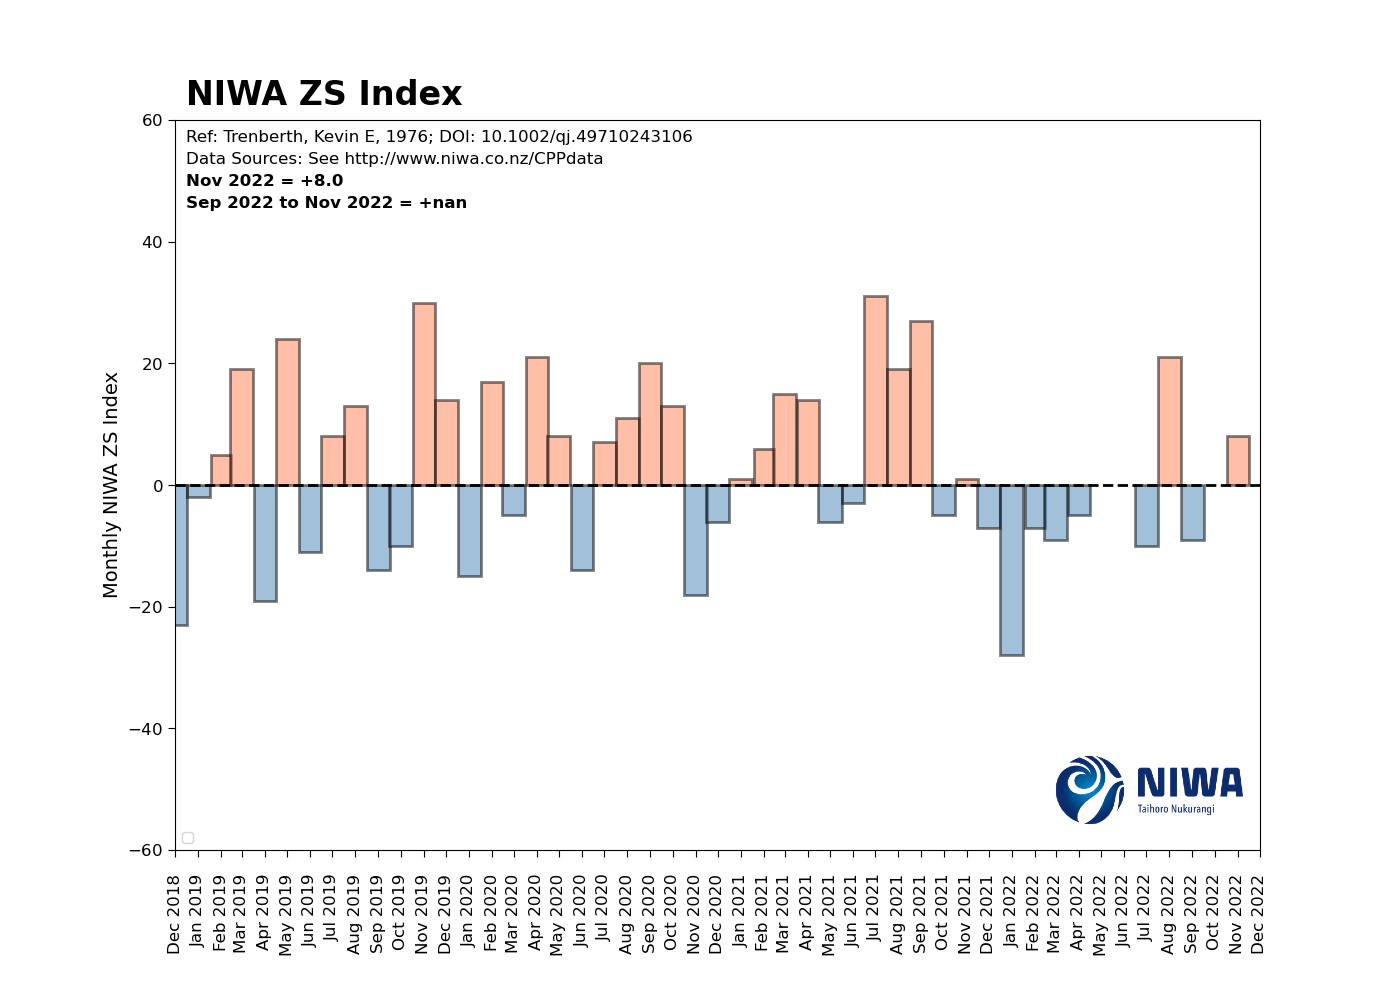
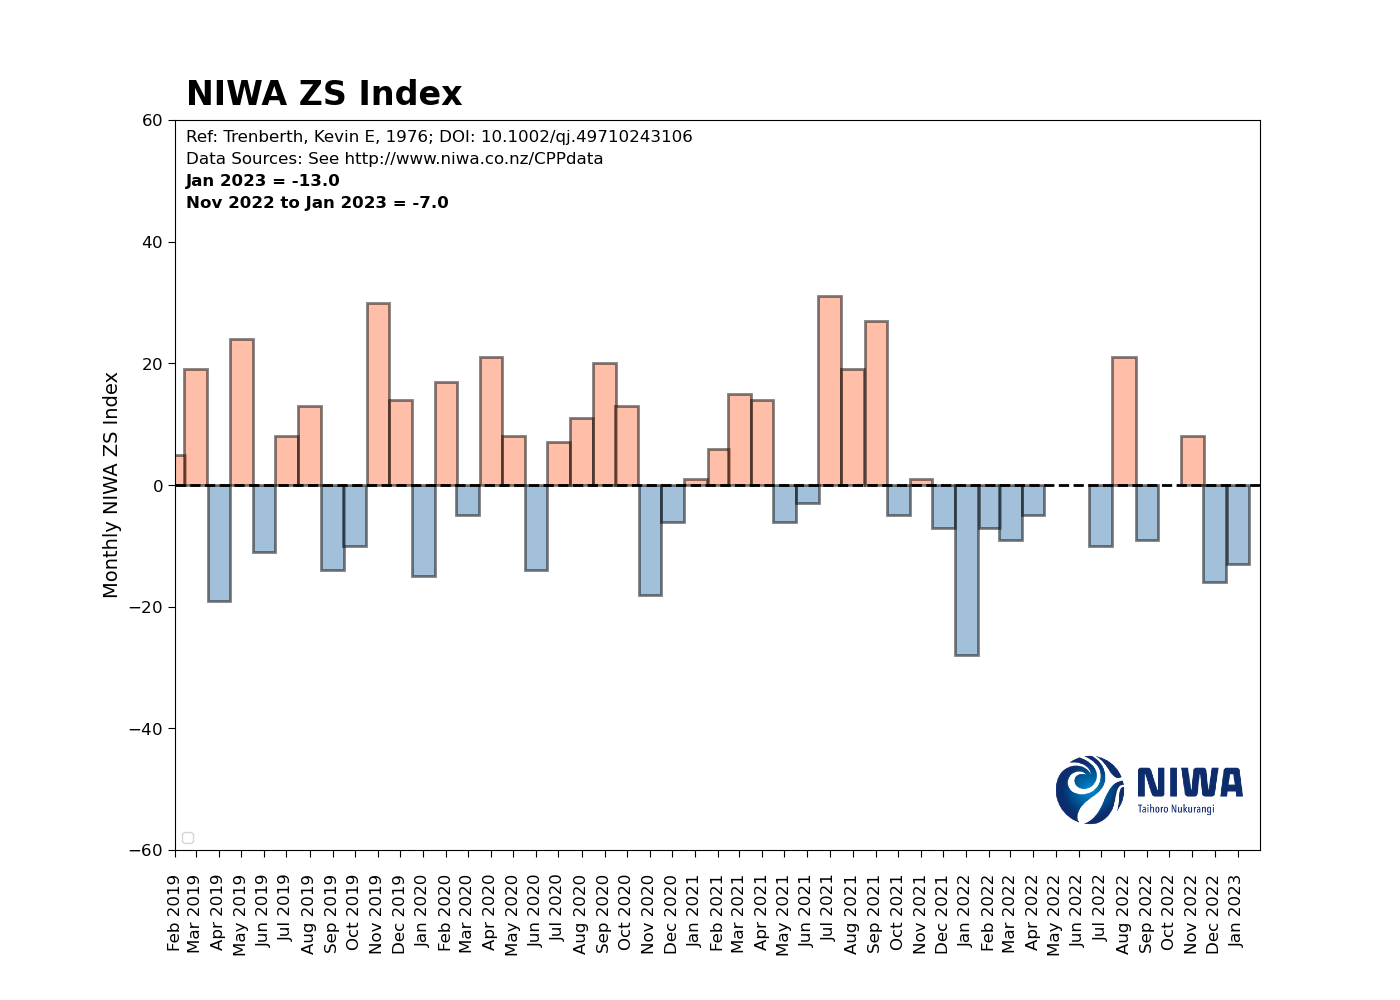
finalized fixes on the trenberth

Changed region(s): [[0.1229, 0.279, 0.8907, 0.682], [0.1229, 0.868, 0.9214, 0.961], [0.1229, 0.155, 0.3379, 0.217]]

diff --git a/data/trenberth_compute.py b/data/trenberth_compute.py
@@ -82,8 +82,12 @@ complete_dset = xr.open_dataset(f'{path}/monthly_mean_mslp.nc', chunks={"time":1
 # complete_dset['longitude'] = complete_dset.longitude.where(complete_dset.longitude < 180.0
 files = glob.glob(f"{path}/single-levels/*/*.nc")
 files = sorted(files)
+# modified in attemp to sort out issues with trenberth indices
+def preprocess(df):
+    times = sorted(df.time.to_index())
+    return df.reindex(time =times)
 with ProgressBar():
-    load_downloaded_dset = xr.open_mfdataset(files, combine ="nested", parallel=True)
+    load_downloaded_dset = xr.open_mfdataset(files, parallel=True, concat_dim="time", preprocess=preprocess)
 
 load_downloaded_dset['longitude'] = load_downloaded_dset.longitude.where(load_downloaded_dset.longitude > 0.0,
                                                                          load_downloaded_dset.longitude  + 360)
